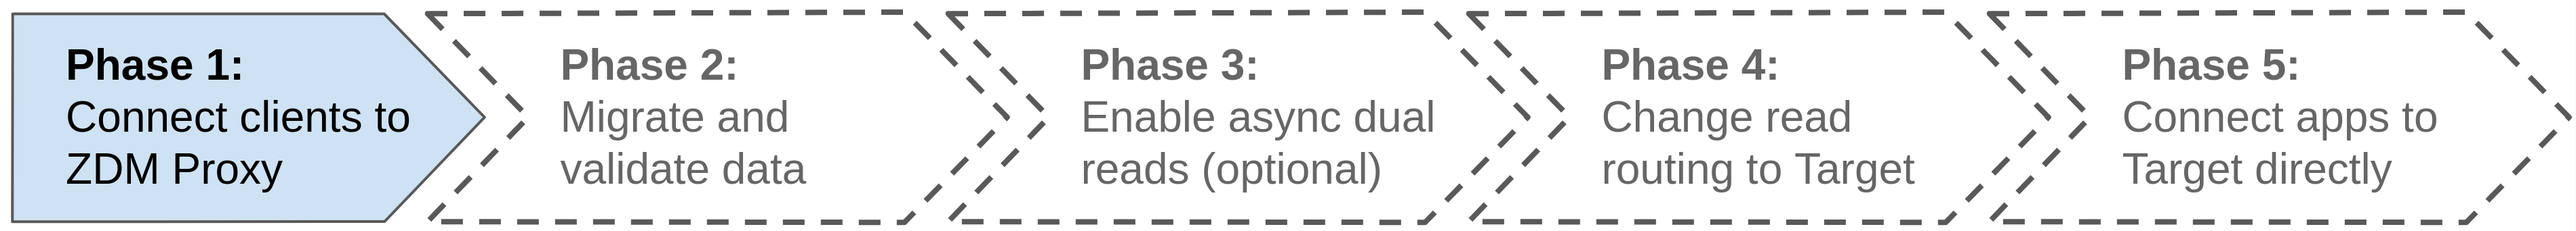
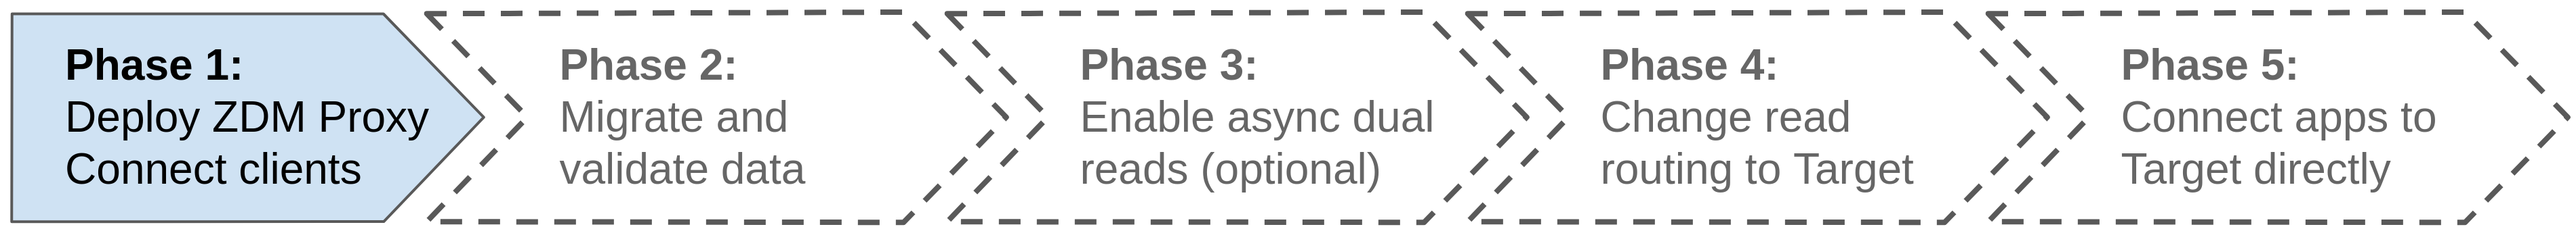
phase 1 renamed to deploy/connect in all images

diff --git a/step8.md b/step8.md
@@ -89,7 +89,7 @@ powering your client application would not even flinch at them undergoing
 a rolling restart.
 
 Meanwhile, keep an eye on the logs from the container:
-they will stop (taking turns, if there were several).
+they will stop.
 Restart the `docker logs` command,
 
 ```bash
